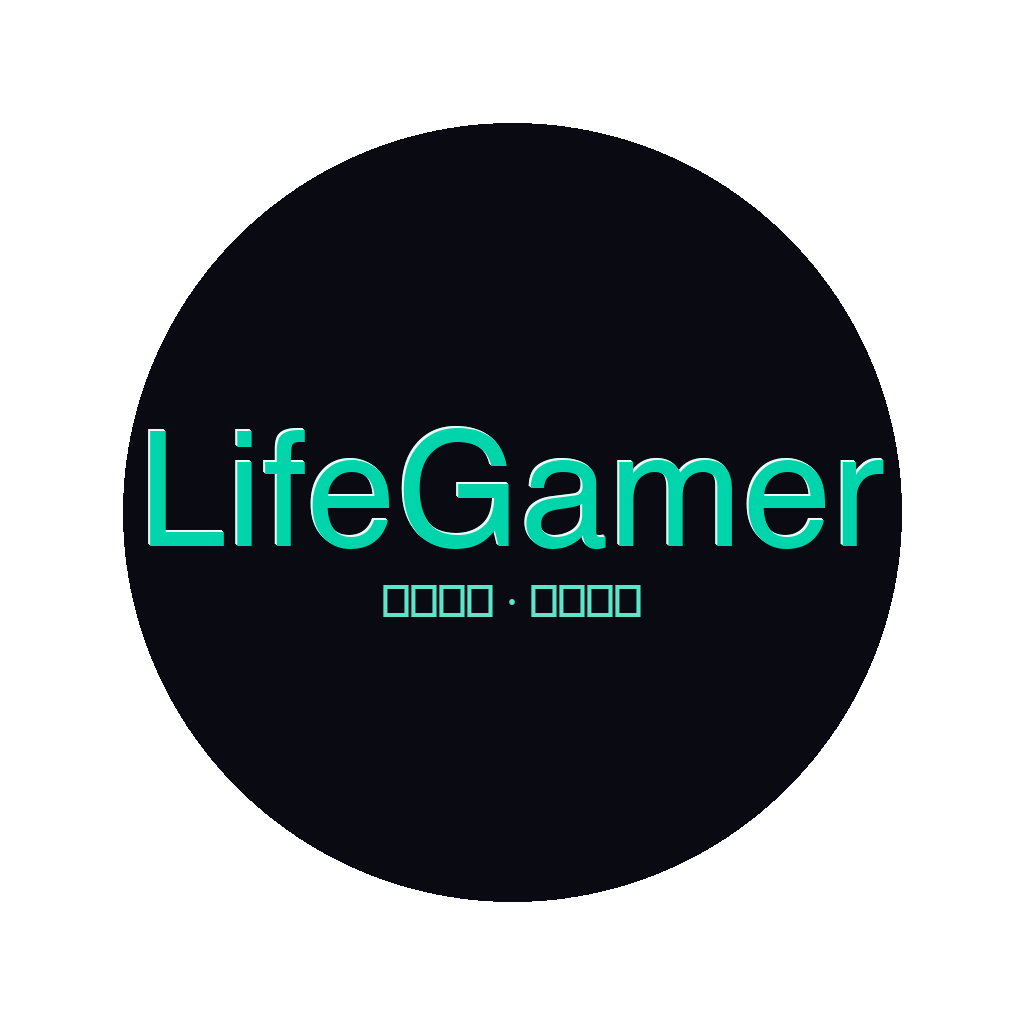
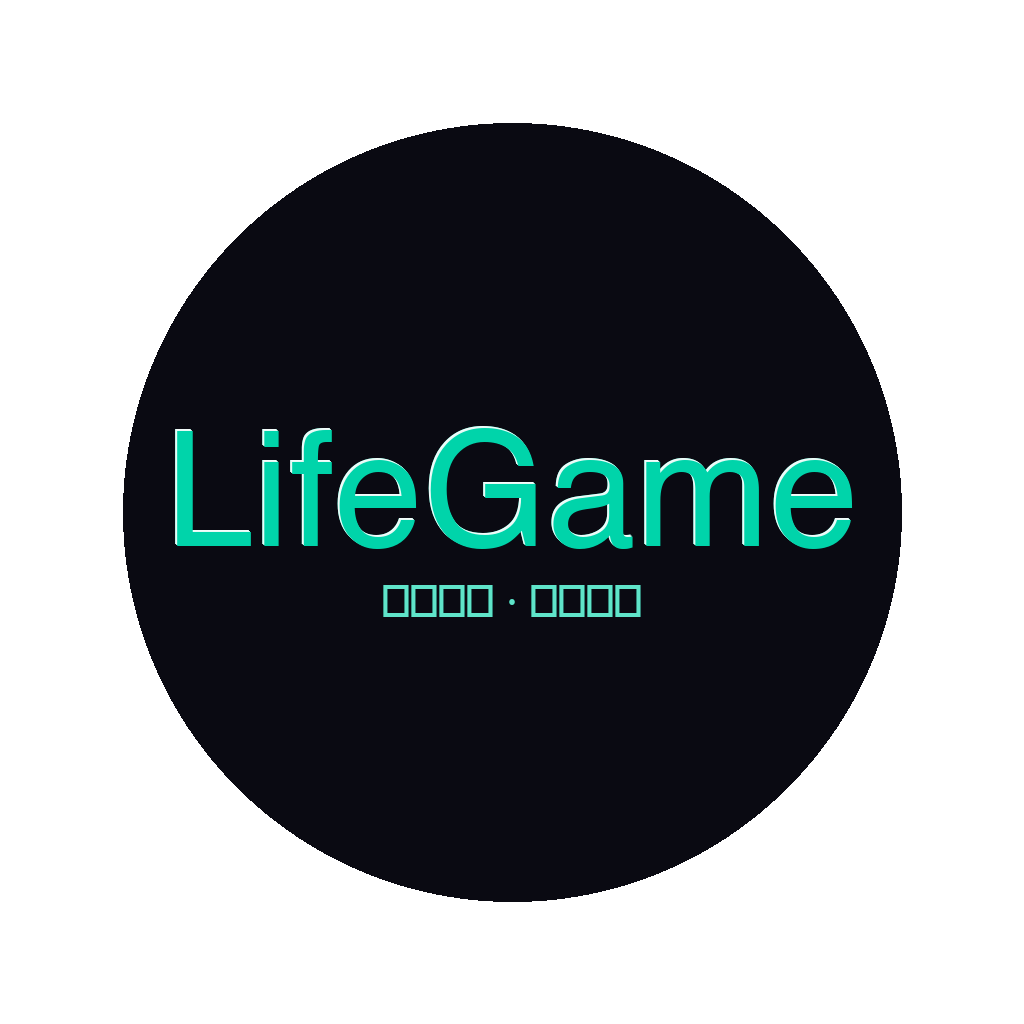
feat: 更新图标文字为 LifeGame
- 将图标文字从 LifeGamer 改为 LifeGame
- 保持深色背景 + 青蓝色文字样式
- 所有图标统一更新

Changed region(s): [[0.2188, 0.4062, 0.875, 0.5625], [0.125, 0.4062, 0.1875, 0.5312]]

diff --git a/life-gamer/generate_icons.py b/life-gamer/generate_icons.py
@@ -1,7 +1,7 @@
 #!/usr/bin/env python3
 """
-LifeGamer 图标生成器
-深色背景 + 青蓝色 LifeGamer 字样
+LifeGame 图标生成器
+深色背景 + 青蓝色 LifeGame 字样
 """
 
 from PIL import Image, ImageDraw, ImageFont
@@ -11,7 +11,7 @@ BG_COLOR = (10, 10, 18, 255)  # 深色背景
 TEXT_COLOR = (0, 212, 170, 255)  # 青蓝色主题色
 
 def create_icon(size, filename):
-    """创建主图标 - 深色背景 + LifeGamer 字样"""
+    """创建主图标 - 深色背景 + LifeGame 字样"""
     img = Image.new('RGBA', (size, size), BG_COLOR)
     draw = ImageDraw.Draw(img)
 
@@ -34,7 +34,7 @@ def create_icon(size, filename):
     scale = size / 1024
     center_x = size // 2
 
-    # ========== LifeGamer 主文字 ==========
+    # ========== LifeGame 主文字 ==========
     title_font_size = int(180 * scale)
     try:
         title_font = ImageFont.truetype("/System/Library/Fonts/Helvetica Bold.ttf", title_font_size)
@@ -44,7 +44,7 @@ def create_icon(size, filename):
         except:
             title_font = ImageFont.load_default()
 
-    title = "LifeGamer"
+    title = "LifeGame"
     title_bbox = draw.textbbox((0, 0), title, font=title_font)
     title_width = title_bbox[2] - title_bbox[0]
     title_height = title_bbox[3] - title_bbox[1]
@@ -147,7 +147,7 @@ def create_adaptive_icon(size, filename):
         fill=BG_COLOR
     )
 
-    # LifeGamer 文字
+    # LifeGame 文字
     title_font_size = int(160 * scale)
     try:
         title_font = ImageFont.truetype("/System/Library/Fonts/Helvetica Bold.ttf", title_font_size)
@@ -157,7 +157,7 @@ def create_adaptive_icon(size, filename):
         except:
             title_font = ImageFont.load_default()
 
-    title = "LifeGamer"
+    title = "LifeGame"
     title_bbox = draw.textbbox((0, 0), title, font=title_font)
     title_width = title_bbox[2] - title_bbox[0]
     title_height = title_bbox[3] - title_bbox[1]
@@ -236,7 +236,7 @@ def create_splash(size, filename):
     scale = width / 1284
     center_x = width // 2
 
-    # LifeGamer 主文字
+    # LifeGame 主文字
     title_font_size = int(120 * scale)
     try:
         title_font = ImageFont.truetype("/System/Library/Fonts/Helvetica Bold.ttf", title_font_size)
@@ -246,7 +246,7 @@ def create_splash(size, filename):
         except:
             title_font = ImageFont.load_default()
 
-    title = "LifeGamer"
+    title = "LifeGame"
     title_bbox = draw.textbbox((0, 0), title, font=title_font)
     title_width = title_bbox[2] - title_bbox[0]
     title_height = title_bbox[3] - title_bbox[1]
@@ -304,7 +304,7 @@ def create_splash(size, filename):
 
 def main():
     """主函数"""
-    print("🎮 LifeGamer 图标生成器")
+    print("🎮 LifeGame 图标生成器")
     print("=" * 50)
     print(f"背景颜色: 深色 RGB{BG_COLOR[:3]}")
     print(f"文字颜色: 青蓝色 RGB{TEXT_COLOR[:3]}")